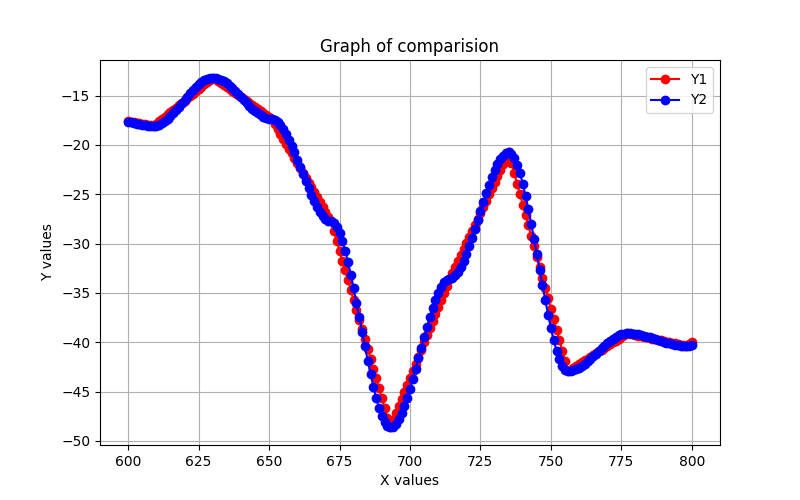
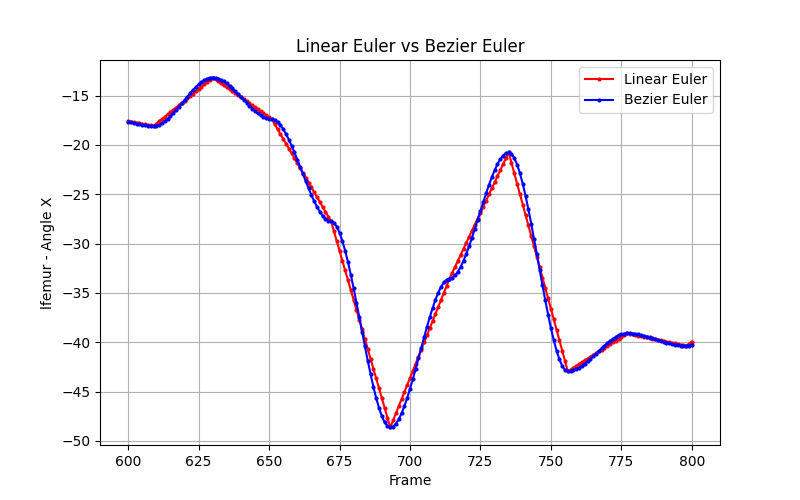
graph plot updated for legend and graphs updated

diff --git a/TestStage/plot_graph.py b/TestStage/plot_graph.py
@@ -4,21 +4,31 @@ import pandas as pd
 import matplotlib.pyplot as plt
 
 if len(sys.argv) < 2:
-    print("Usage: python plot_graph.py <csv_file>")
+    print("Usage: python plot_graph.py <csv_file> <technique1 optional> <technique2 optional> <joint optional> <Axis optional>")
     sys.exit(1)
 
 csv_file = sys.argv[1]
 
+label1 = "Y1"
+label2 = "Y2"
+YAxisLabel = "Angle"
+Title = "Interpolation Comparision"
+if len(sys.argv) >=6:
+    label1 = sys.argv[2]
+    label2 = sys.argv[3]
+    YAxisLabel = sys.argv[4] + " - Angle " + sys.argv[5]
+    Title = label1 + " vs " + label2
+    
+
 data = pd.read_csv(csv_file)
-print(data.columns)
 
 plt.figure(figsize=(8, 5))
-plt.plot(data['Frame'], data['Y1'], marker='o', linestyle='-', color='r', label="Y1") 
-plt.plot(data['Frame'], data['Y2'], marker='o', linestyle='-', color='b', label="Y2")
+plt.plot(data['Frame'], data['Y1'], marker='o', linestyle='-', color='r', label=label1, markersize=2) 
+plt.plot(data['Frame'], data['Y2'], marker='o', linestyle='-', color='b', label=label2, markersize=2)
 
-plt.xlabel("X values")
-plt.ylabel("Y values")
-plt.title("Graph of comparision")
+plt.xlabel("Frame")
+plt.ylabel(YAxisLabel)
+plt.title(Title)
 plt.legend()
 plt.grid(True)
 
